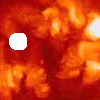
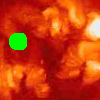
Added some more documentation.

Changed region(s): [[0.09, 0.33, 0.27, 0.51]]

diff --git a/src/Engine.java b/src/Engine.java
@@ -6,27 +6,40 @@ import java.util.PriorityQueue;
 
 import javax.imageio.ImageIO;
 
-
+/**
+ * This is the main engine to compare two (or more) images. 
+ *  It is a singleton and contains our algorithms 
+ *  for digital image correlation.
+ */
 public class Engine {
 	private static Engine eng = null;
 	
 	LinkedList<ImageFrame> imgList = new LinkedList<ImageFrame>();
-	
 	BufferedImage bi;
 	
-	
+	/**
+	 * Useless constructor
+	 */
 	public Engine() {
-		
 	}
 	
-	public static Engine getInstant() {
+	/**
+	 * To access any of Engine's methods, one must first call getInstance
+	 * @return a previously defined or otherwise new instance of Engine
+	 */
+	public static Engine getInstance() {
 		if(eng == null) {
 			eng = new Engine();
 		}
 		return eng;
 	}
 	
-	
+	/**
+	 * Adds an ImageFrame object to a LinkedList to eventually be analyzed.
+	 *  Once two or more images have been stored in this LinkedList, 
+	 *  the two oldest images are removed and analyzed. 
+	 * @param imgFrame An image to eventually be analyzed
+	 */
 	public void addImage(ImageFrame imgFrame) {
 		imgList.add(imgFrame);
 		
@@ -36,11 +49,53 @@ public class Engine {
 			ImageFrame if2 = imgList.getFirst();
 			imgList.removeFirst();
 			
-			deltaComparison(if1, if2);
+			analyze(if1, if2);
 		}
 	}
 	
+	public void analyze(ImageFrame if1, ImageFrame if2) {
+		
+		
+		deltaComparison(if1, if2);
+	
+		
+		File output = new File("img_out.png");
+		try {
+			ImageIO.write(if1.getBum(), "png", output);
+		} catch (IOException e) {
+			e.printStackTrace();
+		}
+	}
+	
+	/**
+	 * ----- ALGORITHM 1 -----
+	 * Compares two images pixel by pixel and outputs 'img_out.png'
+	 *  with a simple XOR algorithm
+	 * @param if1 the first ImageFrame
+	 * @param if2 the second ImageFrame
+	 */
 	public void deltaComparison(ImageFrame if1, ImageFrame if2) {
+		for (int col = 0; col < if1.getHeight(); col++) {
+			for (int row = 0; row < if1.getWidth(); row++) {
+				int[] d1Array = new int[4];
+				if1.getRar().getPixel(row, col, d1Array);
+//				System.out.println("image 1: " + d1Array[0] + " " + d1Array[1]
+//						+ " " + d1Array[2] + " " + d1Array[3]);
+
+				int[] d2Array = new int[4];
+				if2.getRar().getPixel(row, col, d2Array);
+//				System.out.println("image 2: " + d2Array[0] + " " + d2Array[1]
+//						+ " " + d2Array[2] + " " + d2Array[3]);
+
+				if (d1Array[0] != d2Array[0] || d1Array[1] != d2Array[1]
+						|| d1Array[2] != d2Array[2] || d1Array[3] != d2Array[3]) {
+					if1.getBum().setRGB(row, col, 0xff00ff00);
+				}
+			}
+		}
+	}
+	
+	public void edgeDetection(ImageFrame if1, ImageFrame if2) {
 		for (int col = 0; col < if1.getHeight(); col++) {
 			for (int row = 0; row < if1.getWidth(); row++) {
 				int[] d1Array = new int[4];
@@ -48,24 +103,10 @@ public class Engine {
 				System.out.println("image 1: " + d1Array[0] + " " + d1Array[1]
 						+ " " + d1Array[2] + " " + d1Array[3]);
 
-				int[] d2Array = new int[4];
-				if2.getRar().getPixel(row, col, d2Array);
-				System.out.println("image 2: " + d2Array[0] + " " + d2Array[1]
-						+ " " + d2Array[2] + " " + d2Array[3]);
-
-				if (d1Array[0] != d2Array[0] || d1Array[1] != d2Array[1]
-						|| d1Array[2] != d2Array[2] || d1Array[3] != d2Array[3]) {
-					if1.getBum().setRGB(row, col, 0);
-				}
+				
+				if1.getBum().setRGB(row, col, 0x00ff00);
+				
 			}
-		}
-
-		File output = new File("img_out.png");
-		try {
-			ImageIO.write(if1.getBum(), "png", output);
-		} catch (IOException e) {
-			// TODO Auto-generated catch block
-			e.printStackTrace();
 		}
 	}
 	

diff --git a/src/ImageTest.java b/src/ImageTest.java
@@ -1,9 +1,3 @@
-import java.awt.image.BufferedImage;
-import java.awt.image.Raster;
-import java.io.File;
-import java.io.IOException;
-
-import javax.imageio.ImageIO;
 
 public class ImageTest {
 
@@ -12,8 +6,8 @@ public class ImageTest {
 		ImageFrame if1 = new ImageFrame("img1.png");
 		ImageFrame if2 = new ImageFrame("img2.png");
 		
-		Engine.getInstant().addImage(if1);
-		Engine.getInstant().addImage(if2);
+		Engine.getInstance().addImage(if1);
+		Engine.getInstance().addImage(if2);
 		
 	}
 
